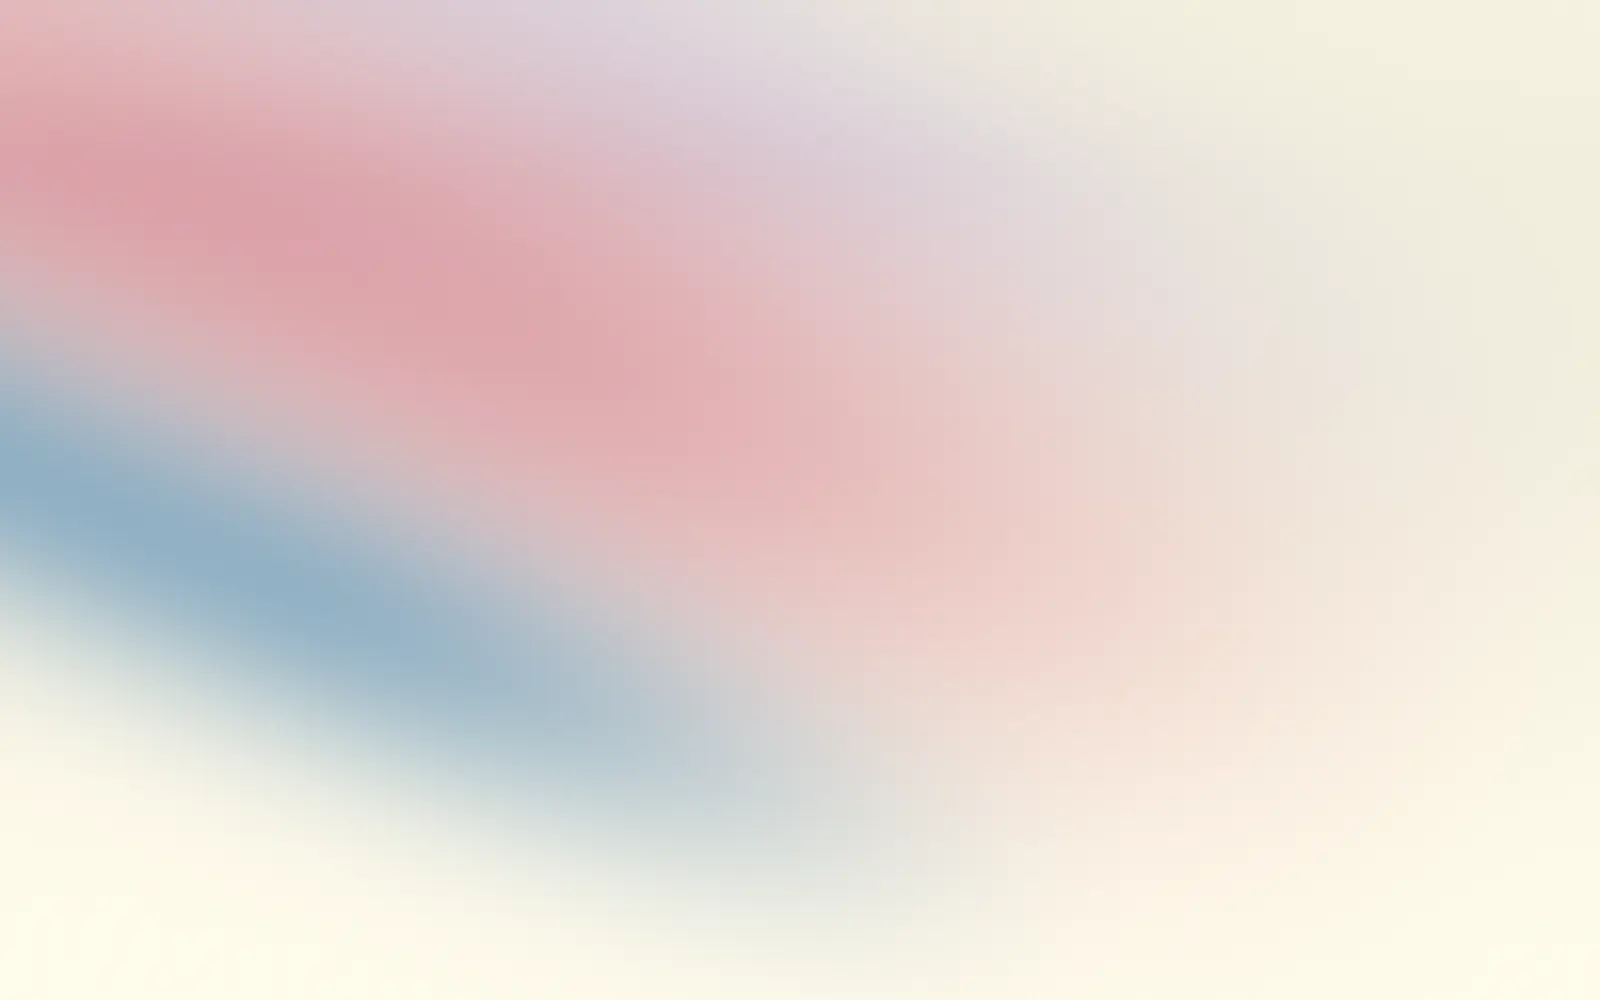
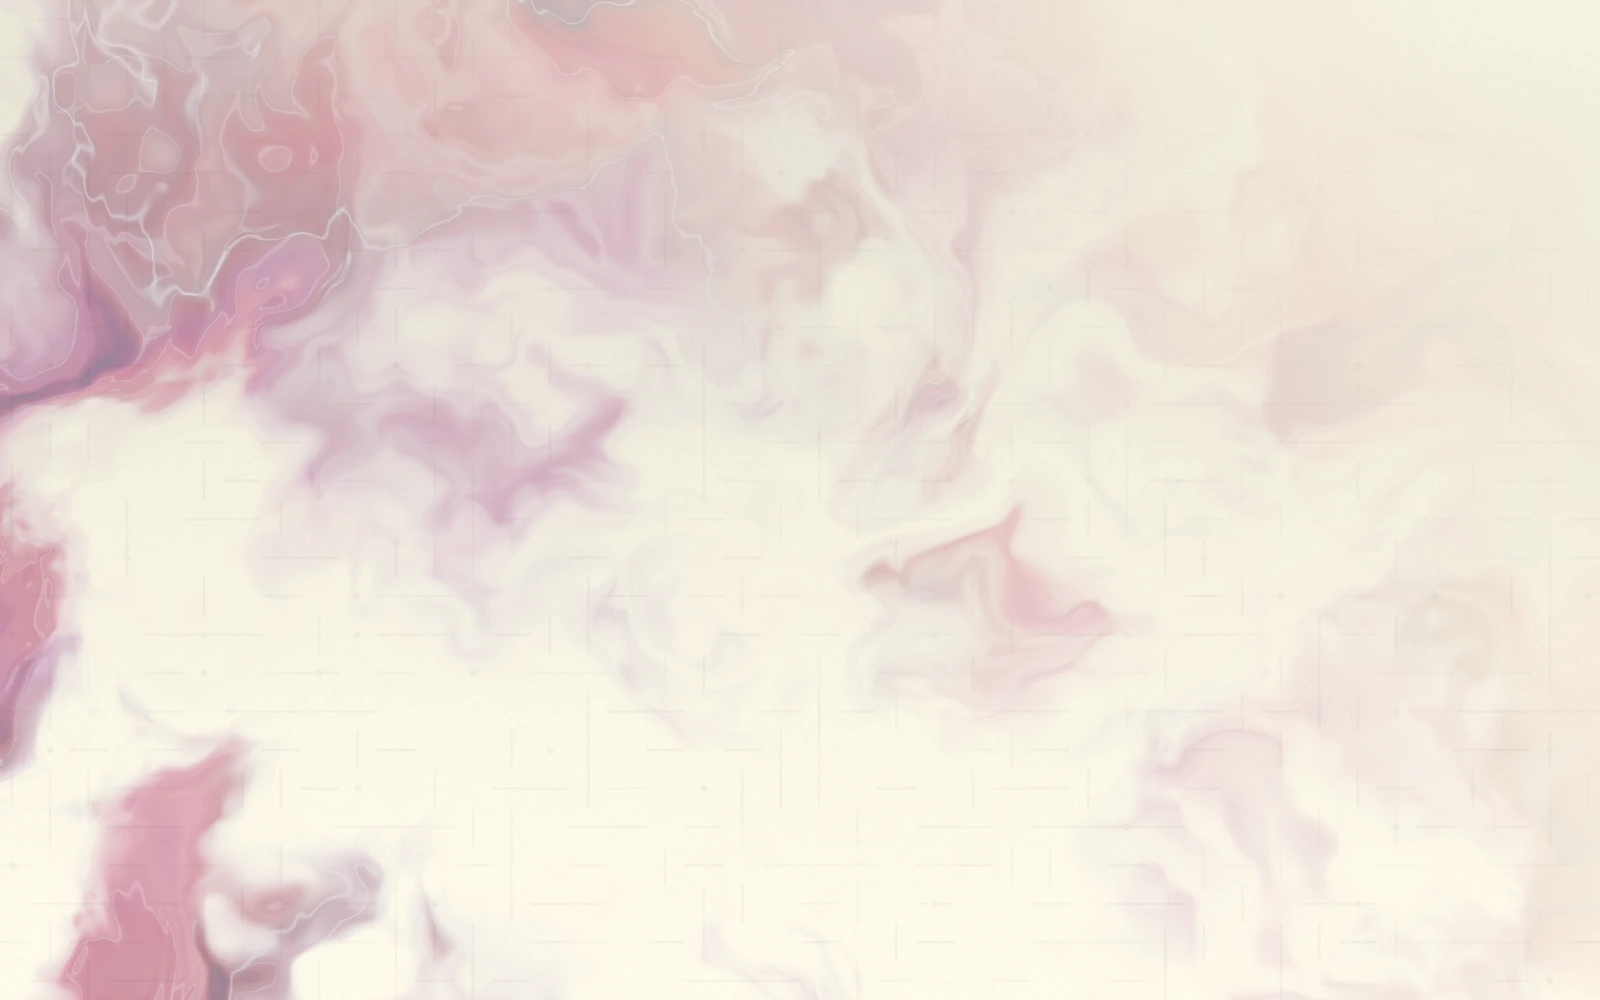
site: Phosphor, Amber and Alucard get their real desktops, wallpapers and palettes
The three newest themes showed placeholder tiles and no desktop preview.
They now carry the same pictures as the other thirteen -- the theme harness's
desktop screenshot (Text Editor, Adwaita Demo, Ptyxis with btop, the GTK3
widget factory) and the theme's own silk wallpaper, both 1600x1000 WebP --
and Phosphor and Amber's site palettes are taken from their shipped
theme.toml instead of the provisional guesses written before the themes
existed.

diff --git a/site/src/data/themes.ts b/site/src/data/themes.ts
@@ -10,9 +10,6 @@
 // Alucard light only, so neither follows the Dark Style toggle and choosing
 // either is a full switch. A single-variant theme shows the variant it has
 // whichever mode the page is in.
-//
-// TODO(alucard-shot): no harness screenshot of Alucard exists yet, so its
-// preview shows its wallpaper; add desktop-light.webp when one is taken.
 import raw from './themes.json';
 
 export type Variant = {
@@ -31,7 +28,7 @@ export type Theme = {
   name: string;
   author: string;
   prefer: string;
-  /** TODO(phosphor-amber-assets): a provisional palette with no pictures yet */
+  /** A theme listed before its pictures exist: shows placeholder tiles. */
   placeholder?: boolean;
   variants: { dark?: Variant; light?: Variant };
 };
